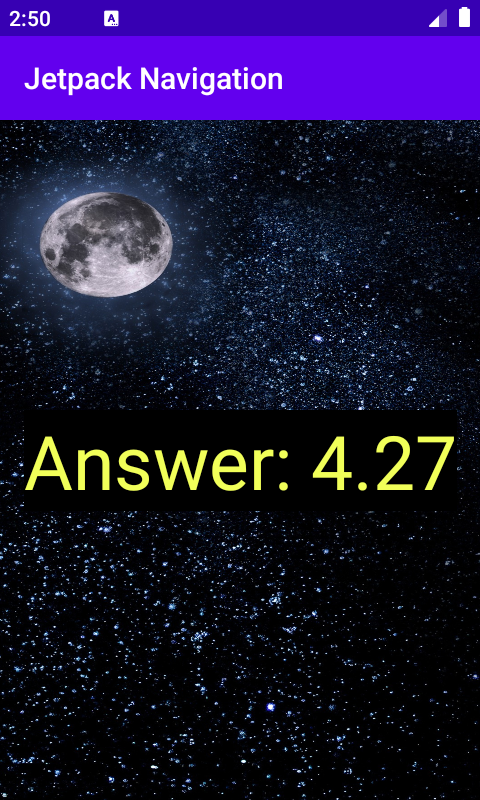
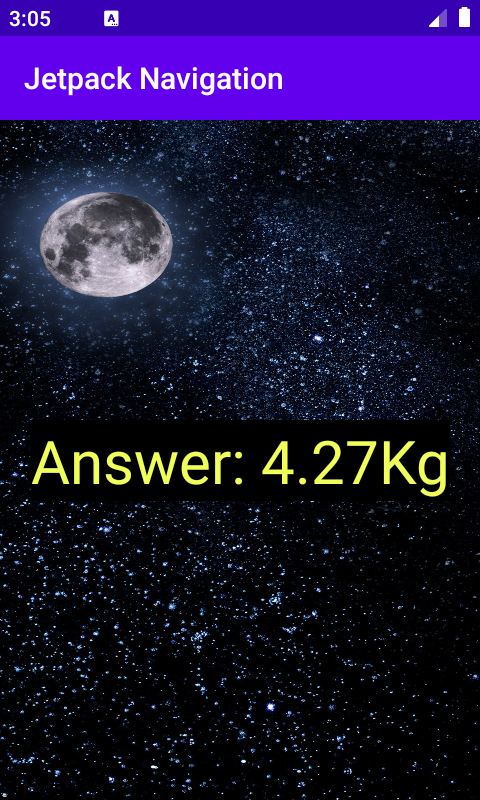
HomeWork 3 - few extra improvements

Changed region(s): [[0.0312, 0.5, 0.9688, 0.6562], [0.0312, 0.0, 0.125, 0.0312]]

diff --git a/HomeWork/HomeWork3/JetpackNavigation/app/src/main/java/com/djcerdas/jetpacknavigation/fragments/Details.java b/HomeWork/HomeWork3/JetpackNavigation/app/src/main/java/com/djcerdas/jetpacknavigation/fragments/Details.java
@@ -36,7 +36,7 @@ public class Details extends Fragment {
         float moonWeight = (float) ((currentUserWeight/9.81)* 1.622);
         String finalResult = String.format("%.2f", moonWeight);
 
-        result.setText("Answer: "+ finalResult);
+        result.setText("Answer: "+ finalResult+"Kg");
 
     }
 }
